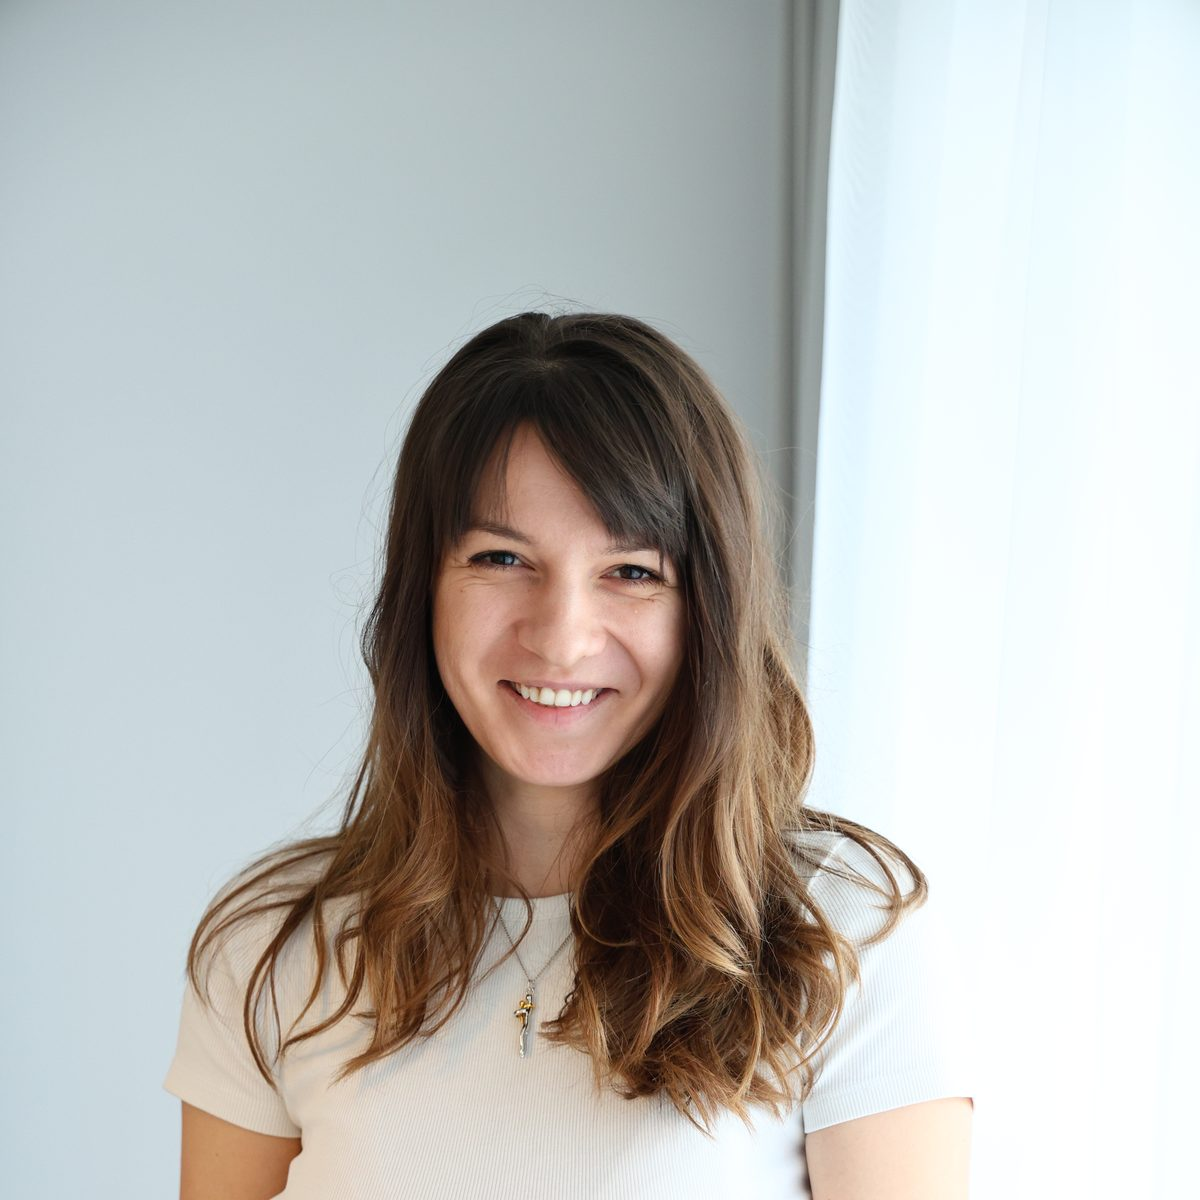
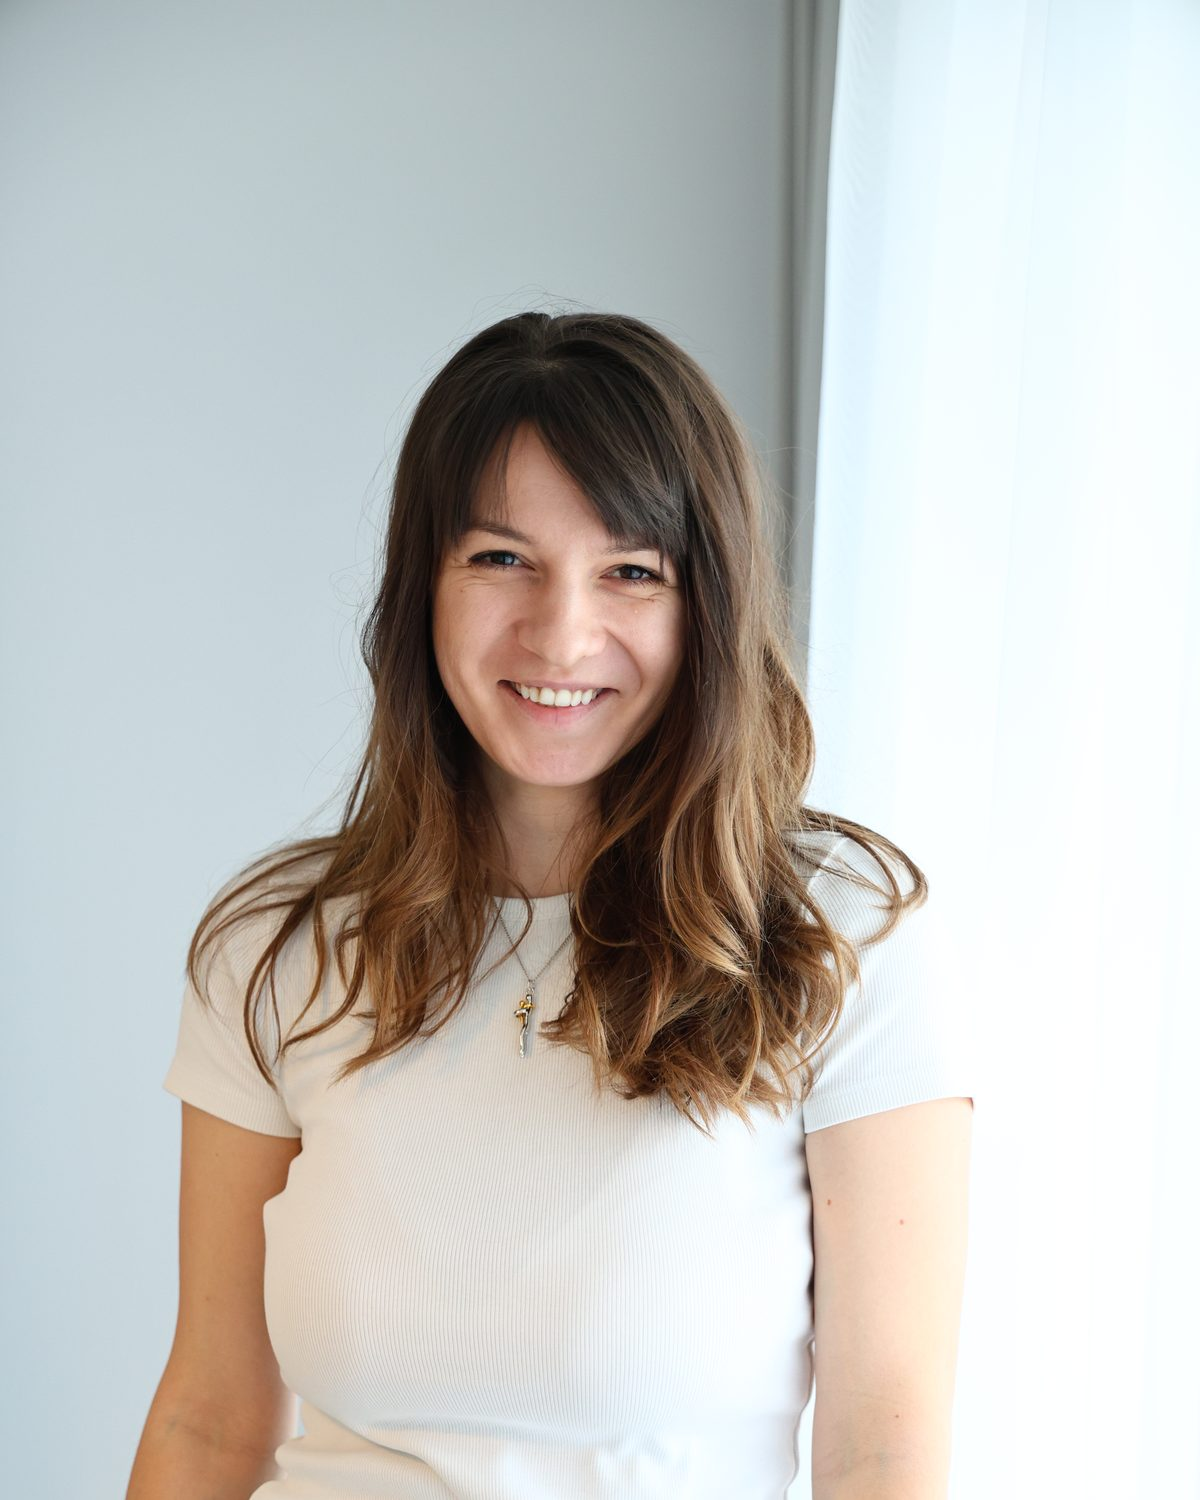
Reincadrare poza de contact si linkuri externe in fila noua
- poza din sectiunea de contact trecuta de la patrat la 4:5, reincadrata
  din original; nu mai era taiata la piept si avea perete gol deasupra
- butonul Email primeste target="_blank" ca sa nu scoata vizitatorul din
  pagina; Instagram si TikTok il aveau deja
- butonul Email copiaza adresa in clipboard, pentru cazul in care nu
  exista aplicatie de email implicita (mailto nu face nimic acolo)

diff --git a/index.html b/index.html
@@ -389,13 +389,13 @@
       </div>
 
       <ul class="socials">
-        <li><a href="mailto:ralucabuzatu.rb@gmail.com">Email</a></li>
+        <li><a href="mailto:ralucabuzatu.rb@gmail.com" target="_blank" rel="noopener">Email</a></li>
         <li><a href="https://www.instagram.com/ralucabuzatu.ro" target="_blank" rel="noopener">Instagram</a></li>
         <li><a href="https://www.tiktok.com/@ralucabuzatu.ro" target="_blank" rel="noopener">TikTok</a></li>
       </ul>
 
       <div class="contact-photo">
-        <img src="images/raluca-contact.jpg" alt="Raluca Buzatu" width="1200" height="1200" loading="lazy">
+        <img src="images/raluca-contact.jpg" alt="Raluca Buzatu" width="1200" height="1500" loading="lazy">
       </div>
     </div>
 

diff --git a/assets/css/style.css b/assets/css/style.css
@@ -582,12 +582,12 @@ p  { margin: 0 0 1.1em; }
 
 .contact-photo img {
   width: 100%;
-  aspect-ratio: 1 / 1;
+  aspect-ratio: 4 / 5;
   object-fit: cover;
   object-position: 50% 50%;
   border-radius: var(--radius);
   box-shadow: var(--shadow-sm);
-  max-width: 420px;
+  max-width: 400px;
 }
 
 .contact-form-wrap {
